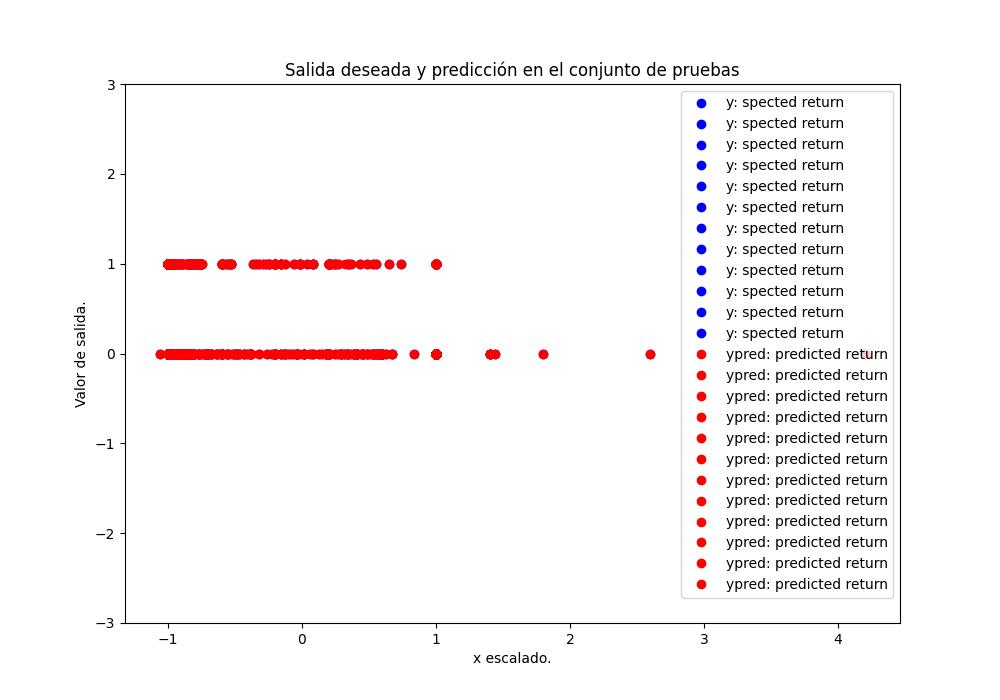
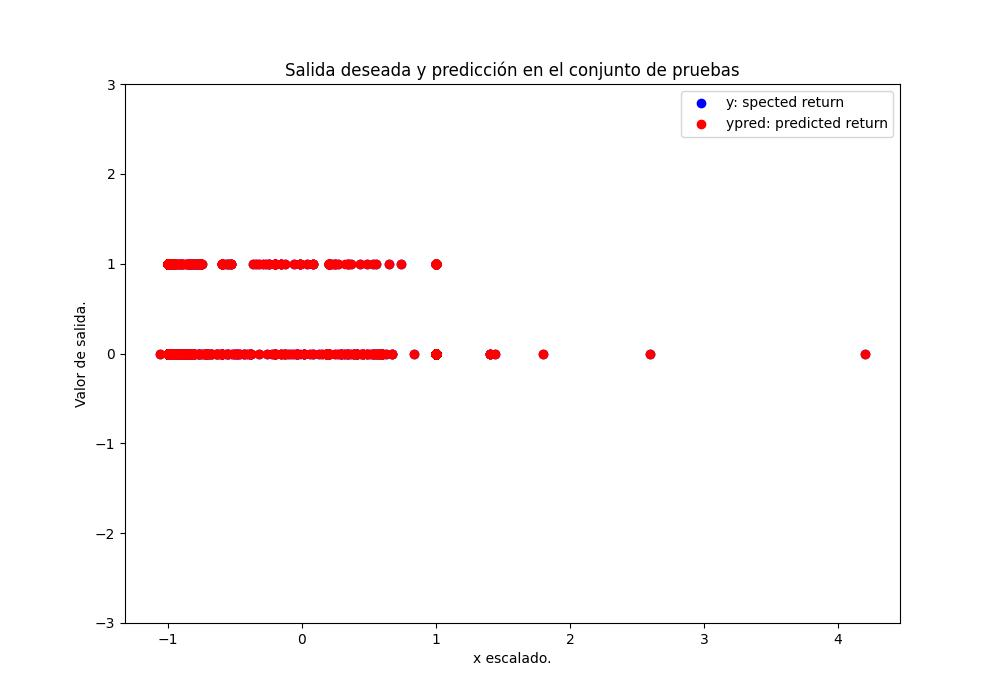
tunning fixed

Changed region(s): [[0.682, 0.15, 0.899, 0.84]]

diff --git a/src/project.py b/src/project.py
@@ -120,7 +120,7 @@ def get_svm():
 
 def get_svm_tuning():
   X_train, X_test, y_train, _ , _, _ = __train_test_val()
-  bestParams, bestEstimator, _ = analysis.svm_tuningn(X_train, X_test, y_train)
+  bestParams, bestEstimator, _ = analysis.svm_tunning(X_train, X_test, y_train)
   return bestEstimator, bestParams
   
 def __xgb():
